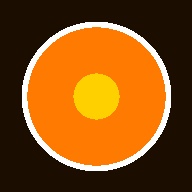
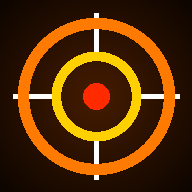
Add files via upload

diff --git a/index.html b/index.html
@@ -57,7 +57,10 @@ body.playing .btn{display:flex}
 .ov .stats{margin:12px 0;line-height:1.7;font-size:16px}
 #intro{position:fixed;inset:0;z-index:20;background:radial-gradient(circle at 50% 40%,#3a1500,#000 70%);display:flex;flex-direction:column;align-items:center;justify-content:center;overflow:hidden;transition:opacity .6s}
 #intro.gone{opacity:0}
-.logo{font-size:2.6rem;font-weight:900;letter-spacing:4px;background:linear-gradient(#fff3a0,#ff7a00,#ff2a00);-webkit-background-clip:text;background-clip:text;color:transparent;animation:pop 1s ease-out both;text-align:center}
+.logo{display:flex;flex-direction:column;align-items:center;animation:pop .9s cubic-bezier(.2,1.4,.4,1) both;text-align:center}
+.emblem{width:120px;height:120px;animation:spin 8s linear infinite;filter:drop-shadow(0 0 14px #ff7a00)}
+@keyframes spin{to{transform:rotate(360deg)}}
+.ltxt{font-size:3.2rem;font-weight:900;letter-spacing:3px;font-family:Impact,'Arial Black',system-ui,sans-serif;background:linear-gradient(#fff6b0 0%,#ffb020 45%,#ff4d00 100%);-webkit-background-clip:text;background-clip:text;color:transparent;filter:drop-shadow(0 4px 0 #7a1c00) drop-shadow(0 0 18px rgba(255,120,0,.7));margin-top:6px;line-height:1.1}
 .logo small{display:block;font-size:.9rem;letter-spacing:8px;color:#ffb347;-webkit-text-fill-color:#ffb347}
 @keyframes pop{from{transform:scale(.3);opacity:0}to{transform:scale(1);opacity:1}}
 .ember{position:absolute;bottom:-10px;width:6px;height:6px;border-radius:50%;background:#ffb347;box-shadow:0 0 8px #ff7a00;animation:rise linear infinite}
@@ -78,9 +81,9 @@ body.playing .btn{display:flex}
 
 <canvas id="c"></canvas>
 
-<div id="intro"><div class="logo">LAST ZONE<small>BATTLE ROYALE</small></div><div class="iload"><div id="ibar"></div></div><button id="istart">TAP TO START</button></div>
+<div id="intro"><div class="logo"><svg class="emblem" viewBox="0 0 100 100"><circle cx="50" cy="50" r="44" fill="none" stroke="#ffb347" stroke-width="4" stroke-dasharray="8 6"/><circle cx="50" cy="50" r="28" fill="none" stroke="#ff7a00" stroke-width="5"/><path d="M50 6V22M50 78V94M6 50H22M78 50H94" stroke="#fff" stroke-width="5" stroke-linecap="round"/><circle cx="50" cy="50" r="6" fill="#ff2a00"/></svg><span class="ltxt">LAST ZONE</span><small>BATTLE ROYALE</small></div><div class="iload"><div id="ibar"></div></div><button id="istart">TAP TO START</button></div>
 <div id="lobby" class="scr">
-  <h1>LAST ZONE</h1>
+  <h1 class="ltxt" style="font-size:2.6rem;margin:6px 0 2px">LAST ZONE</h1>
   <div class="sub">Last one standing wins</div>
   <div class="bar-top"><span>Best: <span id="lbest">0</span></span><span class="coins">🪙 <span id="lcoins">0</span></span></div>
   <div class="card" style="justify-content:space-around">
@@ -92,6 +95,10 @@ body.playing .btn{display:flex}
   <button class="menu-btn alt" id="bdiff">DIFFICULTY</button>
   <button class="menu-btn alt" id="bsens">SENSITIVITY</button>
   <button class="menu-btn alt" id="bsound">SOUND</button>
+  <button class="menu-btn alt" id="bmap">MAP</button>
+  <button class="menu-btn alt" id="bmode">MODE</button>
+  <button class="menu-btn alt" id="bname">NAME</button>
+  <div id="namebox" style="display:none;text-align:center;margin:8px 0"><input id="nameinp" maxlength="12" style="font-size:18px;padding:10px;border-radius:10px;border:0;width:200px;text-align:center"> <button class="act" id="namesave" style="padding:10px 16px">SAVE</button></div>
   <button class="menu-btn alt" id="barmory">ARMORY (Weapons)</button>
   <button class="menu-btn alt" id="bchars">CHARACTERS</button>
   <button class="menu-btn alt" id="bhelp">HOW TO PLAY</button>
@@ -257,6 +264,58 @@ const DIFF={easy:{count:12,hp:80,dmg:6,spread:.3,label:'EASY'},medium:{count:22,
 let diff='medium',sens=1.3;
 try{diff=localStorage.getItem('lsr_diff')||'medium';sens=+(localStorage.getItem('lsr_sens')||1)}catch(e){}
 let training=false,aimTouch=null,padAng=0,aimOn=false;
+const MAPS={
+  grass:{name:'Grassland',bg:'#2f4a2b',rock:'#6b6f6a'},
+  desert:{name:'Desert',bg:'#c9a46a',rock:'#7a5a33'},
+  snow:{name:'Snowfield',bg:'#dfeef4',rock:'#8fa9b8'}
+};
+let map='grass';try{map=localStorage.getItem('lsr_map')||'grass';if(!MAPS[map])map='grass';}catch(e){}
+const MODES={
+  solo:{name:'Solo',allies:0,extra:2},
+  duo:{name:'Duo',allies:1,extra:1},
+  squad:{name:'Squad',allies:3,extra:0}
+};
+let mode='squad';try{mode=localStorage.getItem('lsr_mode')||'squad';if(!MODES[mode])mode='squad';}catch(e){}
+let pname='YOU';try{pname=localStorage.getItem('lsr_name')||'YOU';}catch(e){}
+let totalPlayers=25;
+const ZP=[{wait:45,to:750,dur:30},{wait:30,to:420,dur:30},{wait:25,to:200,dur:25},{wait:20,to:80,dur:20}];
+let zPhase=0,zT=0,zFrom=1150,ROCKS=[];
+function makeRocks(){
+  const out=[];let tries=0;
+  while(out.length<16&&tries<400){
+    tries++;
+    const w=rnd(60,140),h=rnd(60,140),x=rnd(60,WORLD-200),y=rnd(60,WORLD-200);
+    if(Math.hypot(x+w/2-CX,y+h/2-CY)<260)continue;
+    out.push({x,y,w,h});
+  }
+  return out;
+}
+function blocked(x,y){
+  for(const r of ROCKS){if(x>r.x-14&&x<r.x+r.w+14&&y>r.y-14&&y<r.y+r.h+14)return true;}
+  return false;
+}
+function updateZone(dt){
+  if(training)return;
+  const ph=ZP[zPhase];
+  if(!ph){zr=zFrom;return;}
+  zT+=dt;
+  if(zT<ph.wait){zr=zFrom;}
+  else{
+    const k=Math.min(1,(zT-ph.wait)/ph.dur);
+    zr=zFrom+(ph.to-zFrom)*k;
+    if(k>=1){zPhase++;zT=0;zFrom=ph.to;}
+  }
+}
+function zoneText(){
+  if(zPhase>=ZP.length)return 'Final zone';
+  const ph=ZP[zPhase];
+  if(zT<ph.wait)return 'Phase '+(zPhase+1)+': shrinks in '+Math.ceil(ph.wait-zT)+'s';
+  return 'ZONE SHRINKING!';
+}
+$('bname').onclick=()=>{const b=$('namebox');b.style.display=b.style.display==='none'?'block':'none';$('nameinp').value=pname;$('nameinp').focus();};
+$('namesave').onclick=()=>{const t=$('nameinp').value.trim().slice(0,12);if(!t)return;pname=t;try{localStorage.setItem('lsr_name',pname)}catch(e){}$('namebox').style.display='none';renderOpts();};
+$('bmode').onclick=()=>{const k=Object.keys(MODES);mode=k[(k.indexOf(mode)+1)%k.length];try{localStorage.setItem('lsr_mode',mode)}catch(e){}renderOpts();};
+$('bmap').onclick=()=>{const k=Object.keys(MAPS);map=k[(k.indexOf(map)+1)%k.length];try{localStorage.setItem('lsr_map',map)}catch(e){}renderOpts();};
 const WORLD=2400,CX=1200,CY=1200,ZONE0=1150,AMMO_BOX=20;
 let units=[],P=null,bullets=[],loot=[],zr=ZONE0,running=false,paused=false;
 let fire=false,keys={},jx=0,jy=0,js=null,last=0,aimA=0,kills=0,score=0,time=0,runCoins=0;
@@ -276,13 +335,15 @@ function startMatch(tr){
   P=mk('a','YOU',ch.color,CX+rnd(-200,200),CY+rnd(-200,200),ch.hp,ch.spd);
   P.isP=true;P.w=w;P.mag=w.mag;P.res=training?Infinity:w.res;P.meds=1;P.healT=0;
   units=[P];
-  for(let i=0;i<2;i++){const a=mk('a','ALLY','#4cd964',P.x+rnd(-60,60),P.y+rnd(-60,60),100,150);a.w=WEAPONS.pistol;a.mag=Infinity;units.push(a);}
-  const cnt=training?5:DIFF[diff].count;
+  for(let i=0;i<MODES[mode].allies;i++){const a=mk('a','ALLY','#4cd964',P.x+rnd(-60,60),P.y+rnd(-60,60),100,150);a.w=WEAPONS.pistol;a.mag=Infinity;units.push(a);}
+  const cnt=training?5:DIFF[diff].count+MODES[mode].extra;
   for(let i=0;i<cnt;i++){const e=mk('e','ENEMY','#ff6b6b',rnd(100,WORLD-100),rnd(100,WORLD-100),training?100:DIFF[diff].hp,70);e.dummy=training;units.push(e);}
   for(const u of units)if(!u.isP&&u.team==='e')u.w=WEAPONS.pistol;
+  totalPlayers=units.length;
   bullets=[];loot=[];
   for(let i=0;i<60;i++)loot.push({x:rnd(60,WORLD-60),y:rnd(60,WORLD-60),type:Math.random()<.6?'ammo':'hp'});
   zr=ZONE0;kills=0;score=0;time=0;runCoins=0;running=true;paused=false;
+  zPhase=0;zT=0;zFrom=ZONE0;ROCKS=makeRocks();
   document.body.classList.add('playing');
   $('pause').classList.remove('on');$('result').classList.remove('on');
   $('wname').textContent=w.name;
@@ -370,7 +431,7 @@ function finish(win){
   if(finalScore>S.best)S.best=finalScore;
   save();
   $('rtitle').textContent=win?'Winner Winner!':'Eliminated';
-  $('rstats').innerHTML='Place: <b>#'+placed+'</b> of 25<br>Kills: <b>'+kills+'</b><br>Survived: <b>'+Math.floor(time)+'s</b><br>Score: <b>'+finalScore+'</b><br>Coins earned: <b>🪙 '+gained+'</b><br>Total coins: <b>🪙 '+S.coins+'</b>';
+  $('rstats').innerHTML='Place: <b>#'+placed+'</b> of '+totalPlayers+'<br>Kills: <b>'+kills+'</b><br>Survived: <b>'+Math.floor(time)+'s</b><br>Score: <b>'+finalScore+'</b><br>Coins earned: <b>🪙 '+gained+'</b><br>Total coins: <b>🪙 '+S.coins+'</b>';
   $('result').classList.add('on');
 }
 
@@ -408,7 +469,7 @@ function update(dt){
   let mx=((keys.KeyD||keys.ArrowRight)?1:0)-((keys.KeyA||keys.ArrowLeft)?1:0)+jx*sens;
   let my=((keys.KeyS||keys.ArrowDown)?1:0)-((keys.KeyW||keys.ArrowUp)?1:0)+jy*sens;
   const m=Math.hypot(mx,my);
-  if(m>0.01){const s=Math.min(m,1);mx/=m;my/=m;P.x+=mx*P.spd*1.35*s*dt;P.y+=my*P.spd*1.35*s*dt;aimA=Math.atan2(my,mx);}
+  if(m>0.01){const s=Math.min(m,1);mx/=m;my/=m;const ox=P.x,oy=P.y;P.x+=mx*P.spd*1.35*s*dt;P.y+=my*P.spd*1.35*s*dt;if(blocked(P.x,P.y)&&!blocked(ox,oy)){P.x=ox;P.y=oy;}aimA=Math.atan2(my,mx);}
   P.x=clamp(P.x,20,WORLD-20);P.y=clamp(P.y,20,WORLD-20);
 
   for(const l of loot){
@@ -443,10 +504,10 @@ function update(dt){
   for(const u of units){
     if(!u.alive)continue;
     const zoneOut=!training&&Math.hypot(u.x-CX,u.y-CY)>zr;
-    if(zoneOut)u.hp-=5*dt;
+    if(zoneOut)u.hp-=(4+zPhase)*dt;
     if(u.hp<=0){kill(u,false);continue;}
     if(u.isP||u.dummy)continue;
-    u.cool-=dt;u.t-=dt;
+    u.cool-=dt;u.t-=dt;u.px=u.x;u.py=u.y;
     if(u.team==='a'){
       const tgt=nearest(u,'e',350);
       let vx=0,vy=0;
@@ -473,12 +534,13 @@ function update(dt){
       }
     }
     u.x=clamp(u.x,20,WORLD-20);u.y=clamp(u.y,20,WORLD-20);
+    if(blocked(u.x,u.y)&&!blocked(u.px,u.py)){u.x=u.px;u.y=u.py;}
   }
 
   if(!P.alive){finish(false);return;}
 
   for(const b of bullets){
-    b.x+=b.vx*dt;b.y+=b.vy*dt;b.life-=dt;
+    b.x+=b.vx*dt;b.y+=b.vy*dt;b.life-=dt;if(blocked(b.x,b.y))b.life=0;
     for(const u of units){
       if(u.alive&&u.team!==b.team&&dist(u,b)<18){
         u.hp-=b.dmg;b.life=0;if(u.isP)sfx.hurt();else if(b.own)sfx.hit();
@@ -491,7 +553,7 @@ function update(dt){
 
   if(training){if(!units.some(u=>u.team==='e'&&u.alive)){for(let i=0;i<5;i++){const e=mk('e','ENEMY','#ff6b6b',rnd(200,WORLD-200),rnd(200,WORLD-200),100,70);e.dummy=true;units.push(e);}}}
   else if(!units.some(u=>u.team==='e'&&u.alive)){finish(true);return;}
-  if(!training)zr=Math.max(90,zr-dt*9);
+  updateZone(dt);
 }
 
 function label(u,y,text,color){
@@ -507,11 +569,11 @@ function drawUnit(u){
   ctx.beginPath();ctx.moveTo(u.x,u.y);ctx.lineTo(u.x+Math.cos(a)*24,u.y+Math.sin(a)*24);ctx.stroke();
   ctx.fillStyle='#000';ctx.fillRect(u.x-18,u.y-30,36,5);
   ctx.fillStyle=u.color;ctx.fillRect(u.x-18,u.y-30,36*clamp(u.hp/u.maxHp,0,1),5);
-  label(u,u.y-36,u.isP?'YOU':u.team==='a'?'ALLY':'ENEMY',u.color);
+  label(u,u.y-36,u.isP?pname:u.team==='a'?'ALLY':'ENEMY',u.color);
 }
 
 function draw(){
-  ctx.fillStyle='#2f4a2b';ctx.fillRect(0,0,W,H);
+  ctx.fillStyle=MAPS[map].bg;ctx.fillRect(0,0,W,H);
   if(!P)return;
   ctx.save();
   ctx.translate(-(P.x-W/2),-(P.y-H/2));
@@ -520,6 +582,8 @@ function draw(){
   for(let x=0;x<=WORLD;x+=120){ctx.beginPath();ctx.moveTo(x,0);ctx.lineTo(x,WORLD);ctx.stroke();}
   for(let y=0;y<=WORLD;y+=120){ctx.beginPath();ctx.moveTo(0,y);ctx.lineTo(WORLD,y);ctx.stroke();}
 
+  ctx.fillStyle=MAPS[map].rock;
+  for(const r of ROCKS){ctx.fillRect(r.x,r.y,r.w,r.h);ctx.strokeStyle='rgba(0,0,0,.35)';ctx.lineWidth=3;ctx.strokeRect(r.x,r.y,r.w,r.h);}
   ctx.fillStyle='rgba(200,30,30,.35)';
   ctx.beginPath();ctx.rect(-2000,-2000,WORLD+4000,WORLD+4000);ctx.arc(CX,CY,zr,0,6.283,true);ctx.fill();
   ctx.strokeStyle='#ff4040';ctx.lineWidth=4;
@@ -566,7 +630,7 @@ function draw(){
   $('score').textContent=score+Math.floor(time);
   $('runcoins').textContent=runCoins;
   const out=!training&&Math.hypot(P.x-CX,P.y-CY)>zr;
-  $('zone').textContent=training?'TRAINING':(out?'OUTSIDE ZONE!':'Zone safe');
+  $('zone').textContent=training?'TRAINING':(out?'OUTSIDE ZONE!':zoneText());
   $('zone').className=out?'bad':'';
   $('hp').textContent=Math.max(0,Math.ceil(P.hp));
   $('meds').textContent=P.meds;
@@ -637,6 +701,9 @@ function renderOpts(){
   $('bdiff').textContent='DIFFICULTY: '+DIFF[diff].label;
   $('bsens').textContent='SENSITIVITY: '+Math.round(sens*100)+'%';
   $('bsound').textContent='SOUND: '+(AU.muted?'OFF':'ON');
+  $('bmap').textContent='MAP: '+MAPS[map].name;
+  $('bmode').textContent='MODE: '+MODES[mode].name.toUpperCase();
+  $('bname').textContent='NAME: '+pname;
 }
 function mapT(t){
   if(document.body.classList.contains('rot'))return{identifier:t.identifier,clientX:t.clientY,clientY:innerWidth-t.clientX};

diff --git a/privacy.html b/privacy.html
@@ -8,7 +8,7 @@
 </head>
 <body>
 <h1>Privacy Policy - Last Zone</h1>
-<p>Last Updated: 25november2026</p>
+<p>Last Updated: [DATE]</p>
 
 <h2>English</h2>
 <p>Last Zone does not collect, store on any server, or share any personal information. The game does not ask for your name, email, phone number, contacts, photos, or location.</p>
@@ -16,12 +16,12 @@
 <p>The game does not contain advertisements or third-party tracking. It does not use analytics.</p>
 <p>Children: The game does not knowingly collect information from anyone, including children.</p>
 <p>Changes: If this policy changes, the updated version will be posted on this page.</p>
-<p>Contact: kamilrm313@gmail.com</p>
+<p>Contact: [YOUR EMAIL ADDRESS]</p>
 
 <h2>Hindi (हिंदी)</h2>
 <p>Last Zone koi bhi personal jaankari collect nahin karta, kisi server par store nahin karta, aur kisi ke saath share nahin karta. Game aapka naam, email, phone number, contacts, photo ya location nahin maangta.</p>
 <p>Game ki progress (coins, weapons, characters, best score aur settings) sirf aapke device par, browser ki local storage mein save hoti hai. Ye data device se bahar nahin jaata. Browser ka data clear karne par progress reset ho jaayegi.</p>
 <p>Game mein koi advertisement ya third-party tracking nahin hai.</p>
-<p>Contact: kamilrm313@gmail.com</p>
+<p>Contact: [YOUR EMAIL ADDRESS]</p>
 </body>
 </html>

diff --git a/sw.js b/sw.js
@@ -1,4 +1,4 @@
-const CACHE = 'last-zone-v2';
+const CACHE = 'last-zone-v4';
 const FILES = ['./', './index.html', './manifest.json', './icon-192.png', './icon-512.png'];
 self.addEventListener('install', e => {
   e.waitUntil(caches.open(CACHE).then(c => c.addAll(FILES)));

diff --git a/README.md b/README.md
@@ -22,3 +22,7 @@ Upload the new index.html to the same repository (replace the old one). Change t
 ## Before publishing
 - Fill in your email and date in privacy.html.
 - Keep the privacy link handy if you ever apply to a store.
+
+## Live links
+- Game: https://K71133708-crypto.github.io/last-zone/
+- Privacy policy: https://K71133708-crypto.github.io/last-zone/privacy.html
